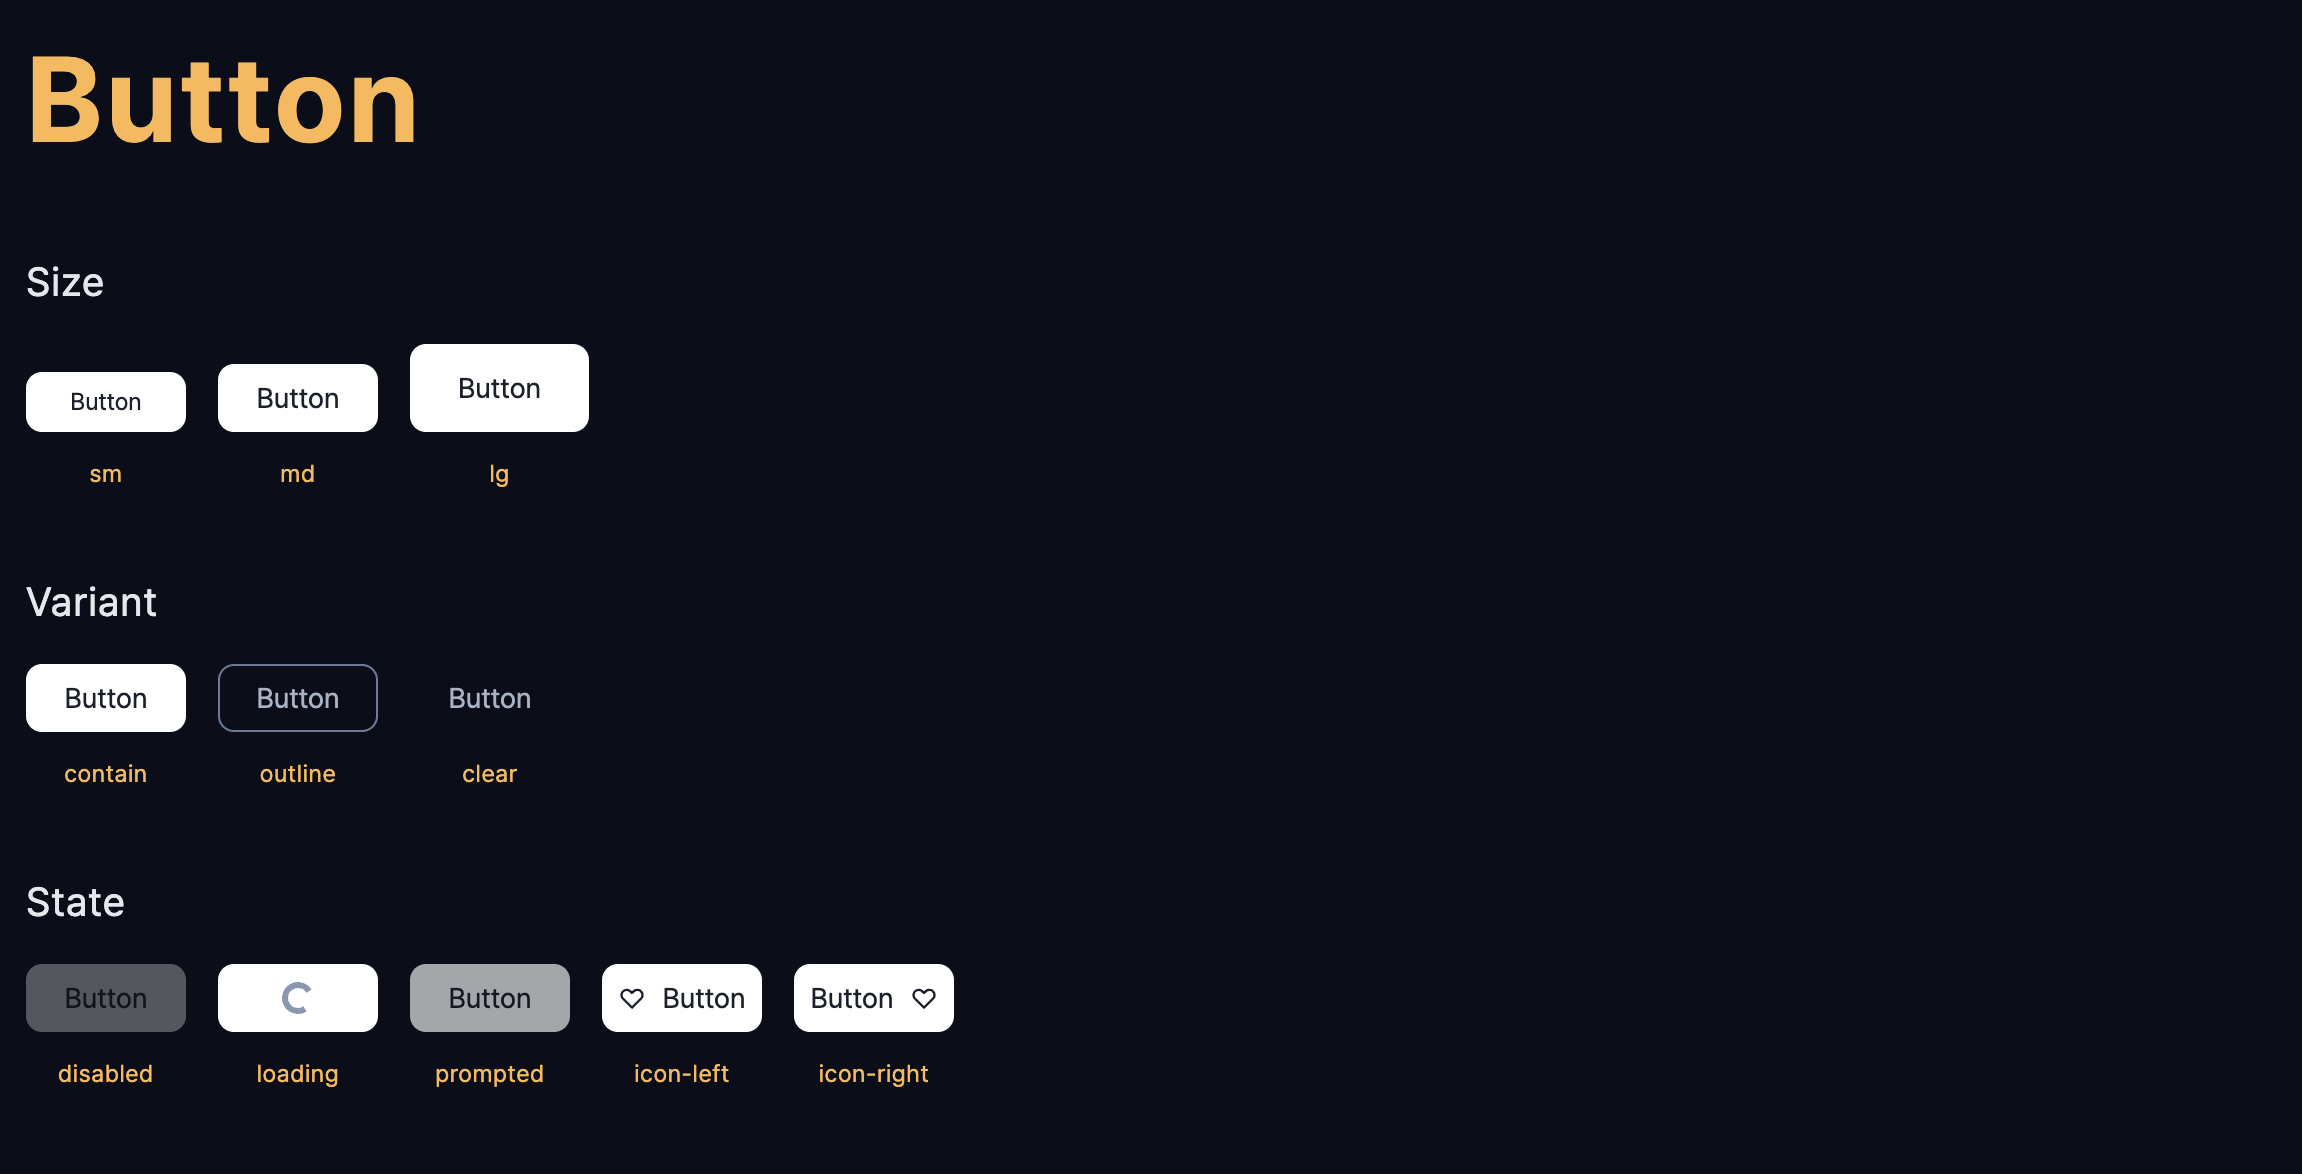
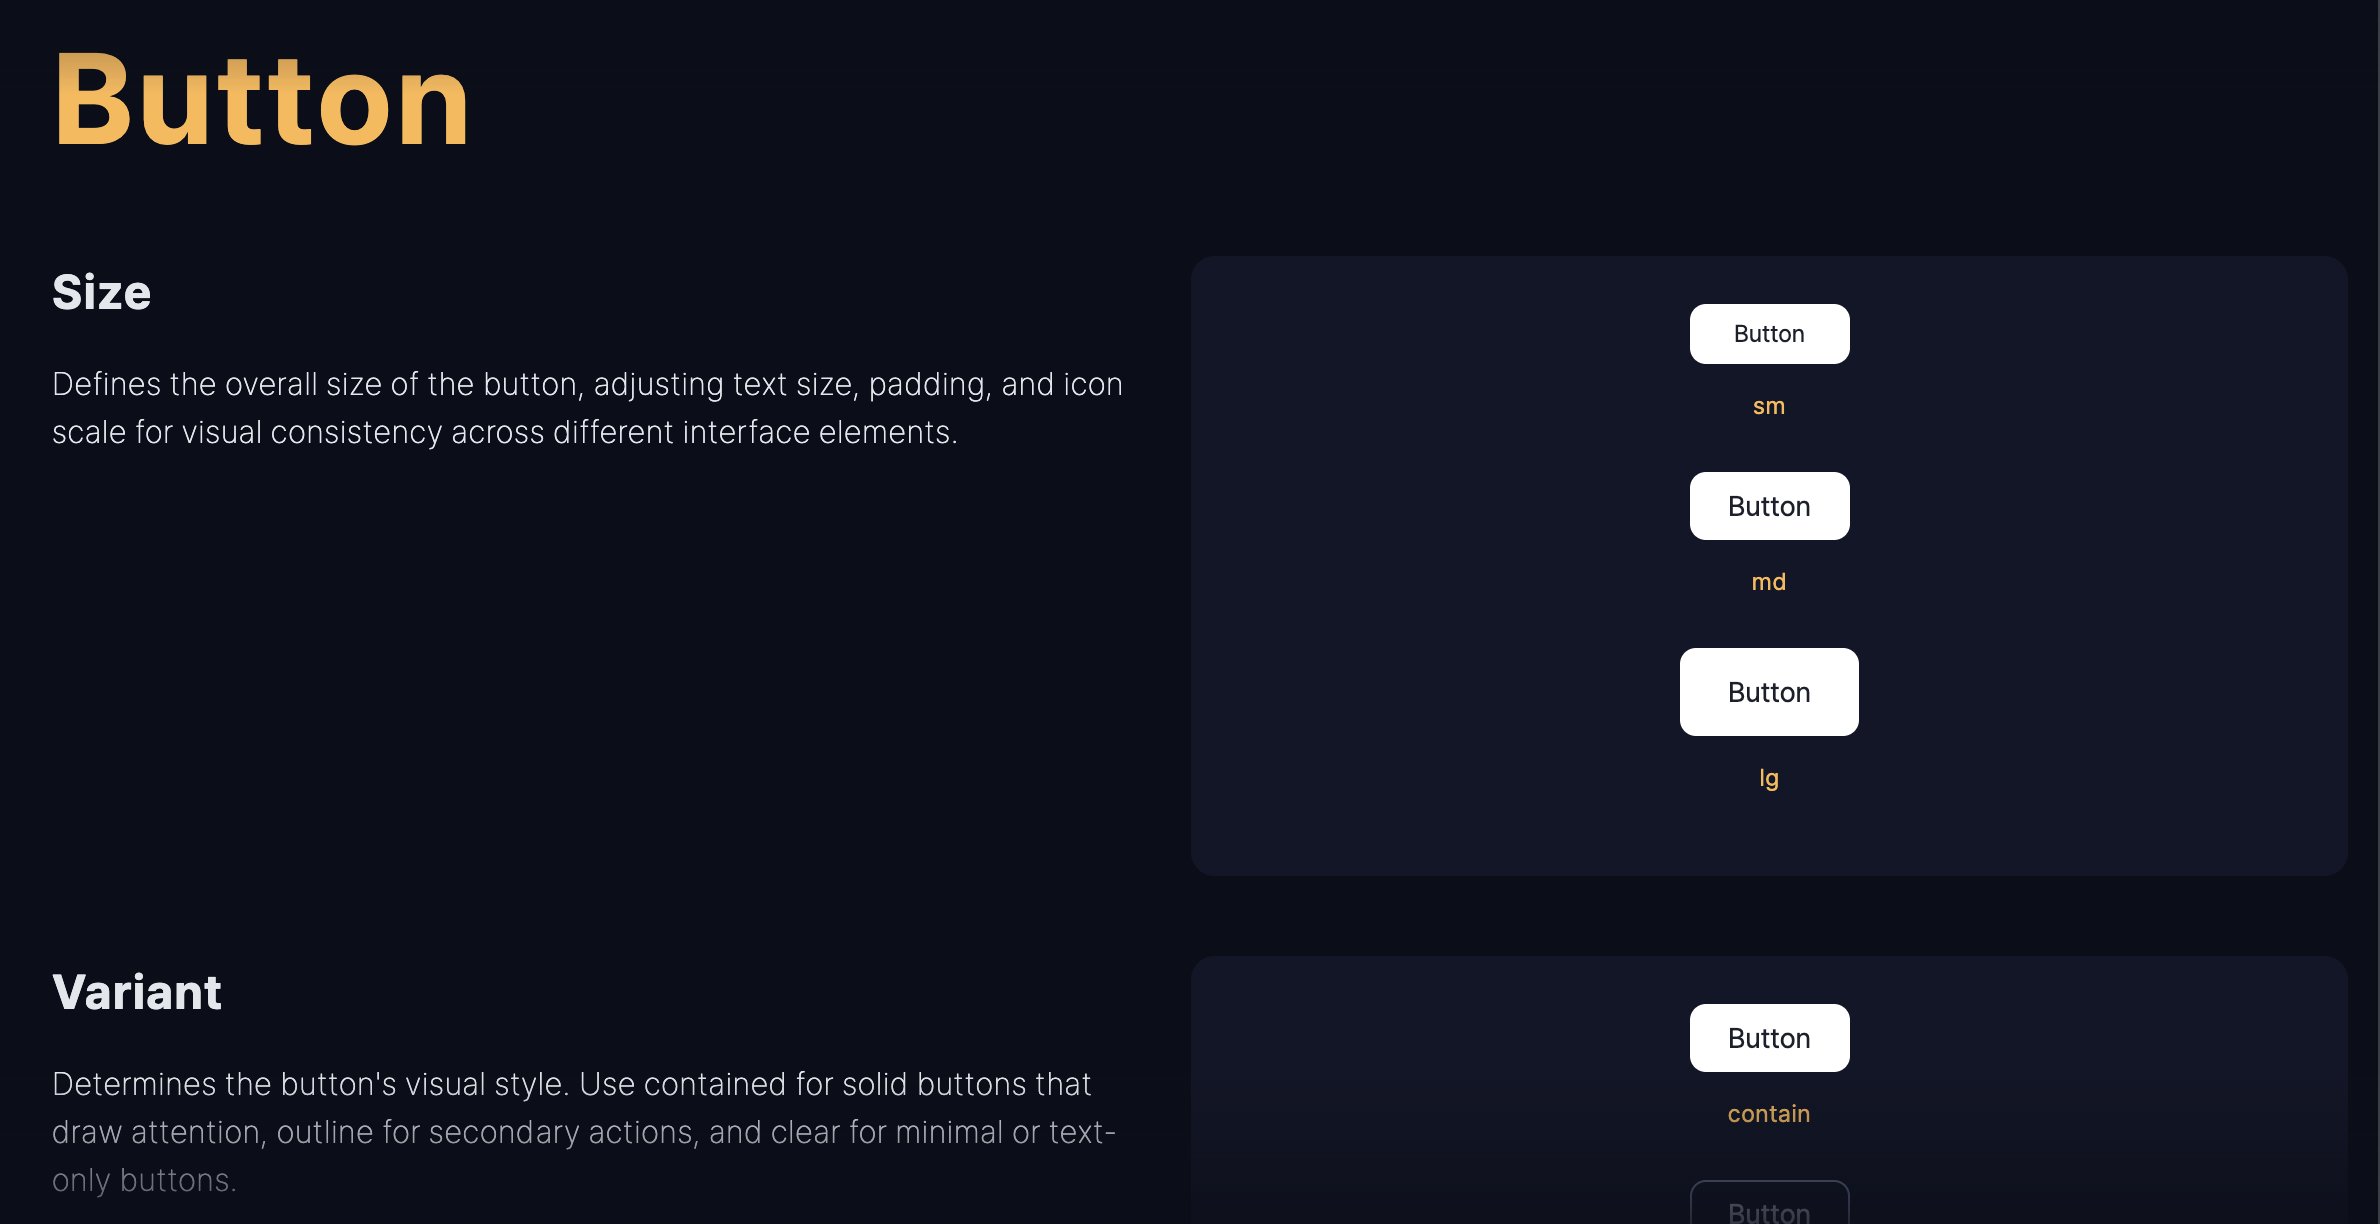
feat: add desc to button

diff --git a/src/design-system/components/button/ButtonStateGuide.tsx b/src/design-system/components/button/ButtonStateGuide.tsx
@@ -1,9 +1,7 @@
 import React from 'react';
-import { HiOutlineHeart } from 'react-icons/hi';
 
 import FlexWrapper from '@/design-system/layout/FlexWrapper';
 
-import Box from '@/design-system/components/Box';
 import Button from '@/design-system/components/Button';
 import Typography from '@/design-system/foundation/Typography';
 
@@ -15,36 +13,41 @@ const ButtonStateGuide = () => {
     { id: 'disabled', value: 'Disabled' },
     { id: 'loading', value: 'Loading' },
     { id: 'prompted', value: 'Prompted' },
-    { id: 'icon-left', value: 'Icon Left' },
-    { id: 'icon-right', value: 'Icon Right' },
   ];
   return (
-    <FlexWrapper classes="w-full" items="start" direction="col">
-      <Typography variant="H3">State</Typography>
-      <FlexWrapper classes="size-full" items="center">
-        <FlexWrapper items="end">
-          {statusOptions.map((option) => (
-            <div key={option.id} className="w-full">
-              <FlexWrapper classes="!gap-3" direction="col" items="center">
-                <Button
-                  disabled={option.id === 'disabled'}
-                  loading={option.id === 'loading'}
-                  prompted={option.id === 'prompted'}
-                  icon={
-                    (option.id === 'icon-left' || option.id === 'icon-right') && <HiOutlineHeart />
-                  }
-                  iconPosition={option.id === 'icon-left' ? 'left' : 'right'}
-                  classes="min-w-[80px]"
-                >
-                  Button
-                </Button>
-                <Typography variant="C1" color="secondary">
-                  {option.id}
-                </Typography>
-              </FlexWrapper>
-            </div>
-          ))}
-        </FlexWrapper>
+    <FlexWrapper classes="size-full lg:flex-row" direction="col" items="start">
+      <FlexWrapper classes="w-full" items="start" direction="col">
+        <Typography variant="H3">State</Typography>
+        <Typography variant="B1">
+          Represents the interactive state of the button. Use disabled to prevent interaction,
+          loading to indicate progress, and prompt to draw temporary attention or highlight a key
+          action.
+        </Typography>
+      </FlexWrapper>
+      <FlexWrapper
+        items="start"
+        direction="col"
+        justify="start"
+        classes="bg-primary-900 p-6 w-full rounded-xl pb-10"
+        gap={6}
+      >
+        {statusOptions.map((option) => (
+          <div key={option.id} className="w-full">
+            <FlexWrapper classes="!gap-3" direction="col" items="center">
+              <Button
+                disabled={option.id === 'disabled'}
+                loading={option.id === 'loading'}
+                prompted={option.id === 'prompted'}
+                classes="min-w-[80px]"
+              >
+                Button
+              </Button>
+              <Typography variant="C1" color="secondary">
+                {option.id}
+              </Typography>
+            </FlexWrapper>
+          </div>
+        ))}
       </FlexWrapper>
     </FlexWrapper>
   );

diff --git a/src/design-system/components/button/ButtonIconGuide.tsx b/src/design-system/components/button/ButtonIconGuide.tsx
@@ -1,26 +1,26 @@
 import React from 'react';
+import { HiOutlineHeart } from 'react-icons/hi';
 
 import FlexWrapper from '@/design-system/layout/FlexWrapper';
 
 import Button from '@/design-system/components/Button';
 import Typography from '@/design-system/foundation/Typography';
 
-const ButtonSizeGuide = () => {
-  const sizeOptions: {
-    id: Common.ButtonSize;
+const ButtonIconGuide = () => {
+  const iconOptions: {
+    id: Common.ButtonIconPosition;
     value: string;
   }[] = [
-    { id: 'sm', value: 'Small' },
-    { id: 'md', value: 'Medium' },
-    { id: 'lg', value: 'Large' },
+    { id: 'left', value: 'Left Icon' },
+    { id: 'right', value: 'Right Icon' },
   ];
   return (
     <FlexWrapper classes="size-full lg:flex-row" direction="col" items="start">
       <FlexWrapper classes="w-full" items="start" direction="col">
-        <Typography variant="H3">Size</Typography>
+        <Typography variant="H3">Icon</Typography>
         <Typography variant="B1">
-          Defines the overall size of the button, adjusting text size, padding, and icon scale for
-          visual consistency across different interface elements.
+          Defines the icon placement within the button. Use icon-left or icon-right to display icons
+          beside the label, or hide to render the button without an icon.
         </Typography>
       </FlexWrapper>
       <FlexWrapper
@@ -30,10 +30,14 @@ const ButtonSizeGuide = () => {
         classes="bg-primary-900 p-6 w-full rounded-xl pb-10"
         gap={6}
       >
-        {sizeOptions.map((option) => (
+        {iconOptions.map((option) => (
           <div key={option.id} className="w-full">
             <FlexWrapper classes="!gap-3" direction="col" items="center">
-              <Button classes="min-w-[80px]" size={option.id}>
+              <Button
+                icon={<HiOutlineHeart className="text-lg" />}
+                iconPosition={option.id}
+                classes="min-w-[80px]"
+              >
                 Button
               </Button>
               <Typography variant="C1" color="secondary">
@@ -47,4 +51,4 @@ const ButtonSizeGuide = () => {
   );
 };
 
-export default ButtonSizeGuide;
+export default ButtonIconGuide;

diff --git a/src/design-system/components/button/ButtonShapeGuide.tsx b/src/design-system/components/button/ButtonShapeGuide.tsx
@@ -1,26 +1,26 @@
 import React from 'react';
+import { HiOutlineHeart } from 'react-icons/hi';
 
 import FlexWrapper from '@/design-system/layout/FlexWrapper';
 
 import Button from '@/design-system/components/Button';
 import Typography from '@/design-system/foundation/Typography';
 
-const ButtonSizeGuide = () => {
-  const sizeOptions: {
-    id: Common.ButtonSize;
+const ButtonShapeGuide = () => {
+  const shapeOptions: {
+    id: Common.ButtonShape;
     value: string;
   }[] = [
-    { id: 'sm', value: 'Small' },
-    { id: 'md', value: 'Medium' },
-    { id: 'lg', value: 'Large' },
+    { id: 'rect', value: 'Rect' },
+    { id: 'circle', value: 'Circle' },
   ];
   return (
     <FlexWrapper classes="size-full lg:flex-row" direction="col" items="start">
       <FlexWrapper classes="w-full" items="start" direction="col">
-        <Typography variant="H3">Size</Typography>
+        <Typography variant="H3">Shape</Typography>
         <Typography variant="B1">
-          Defines the overall size of the button, adjusting text size, padding, and icon scale for
-          visual consistency across different interface elements.
+          Controls the button's overall shape. Use rect for standard rectangular buttons or circle
+          for perfectly round buttons, often used for icon-only actions.
         </Typography>
       </FlexWrapper>
       <FlexWrapper
@@ -30,11 +30,11 @@ const ButtonSizeGuide = () => {
         classes="bg-primary-900 p-6 w-full rounded-xl pb-10"
         gap={6}
       >
-        {sizeOptions.map((option) => (
+        {shapeOptions.map((option) => (
           <div key={option.id} className="w-full">
             <FlexWrapper classes="!gap-3" direction="col" items="center">
-              <Button classes="min-w-[80px]" size={option.id}>
-                Button
+              <Button shape={option.id}>
+                <HiOutlineHeart className="text-lg" />
               </Button>
               <Typography variant="C1" color="secondary">
                 {option.id}
@@ -47,4 +47,4 @@ const ButtonSizeGuide = () => {
   );
 };
 
-export default ButtonSizeGuide;
+export default ButtonShapeGuide;

diff --git a/src/design-system/components/button/ButtonVariantGuide.tsx b/src/design-system/components/button/ButtonVariantGuide.tsx
@@ -17,23 +17,33 @@ const ButtonVariantGuide = () => {
   ];
 
   return (
-    <FlexWrapper classes="w-full" items="start" direction="col">
-      <Typography variant="H3">Variant</Typography>
-      <FlexWrapper classes="size-full" items="center">
-        <FlexWrapper items="end">
-          {variantOptions.map((option) => (
-            <div key={option.id} className="w-full">
-              <FlexWrapper classes="!gap-3" direction="col" items="center">
-                <Button classes="min-w-[80px]" variant={option.id}>
-                  Button
-                </Button>
-                <Typography variant="C1" color="secondary">
-                  {option.id}
-                </Typography>
-              </FlexWrapper>
-            </div>
-          ))}
-        </FlexWrapper>
+    <FlexWrapper classes="size-full lg:flex-row" direction="col" items="start">
+      <FlexWrapper classes="w-full" items="start" direction="col">
+        <Typography variant="H3">Variant</Typography>
+        <Typography variant="B1">
+          Determines the button's visual style. Use contained for solid buttons that draw attention,
+          outline for secondary actions, and clear for minimal or text-only buttons.
+        </Typography>
+      </FlexWrapper>
+      <FlexWrapper
+        items="start"
+        direction="col"
+        justify="start"
+        classes="bg-primary-900 p-6 w-full rounded-xl pb-10"
+        gap={6}
+      >
+        {variantOptions.map((option) => (
+          <div key={option.id} className="w-full">
+            <FlexWrapper classes="!gap-3" direction="col" items="center">
+              <Button classes="min-w-[80px]" variant={option.id}>
+                Button
+              </Button>
+              <Typography variant="C1" color="secondary">
+                {option.id}
+              </Typography>
+            </FlexWrapper>
+          </div>
+        ))}
       </FlexWrapper>
     </FlexWrapper>
   );

diff --git a/src/app/design-system/components/button/page.tsx b/src/app/design-system/components/button/page.tsx
@@ -3,6 +3,8 @@
 import ButtonSizeGuide from '@/design-system/components/button/ButtonSizeGuide';
 import ButtonStateGuide from '@/design-system/components/button/ButtonStateGuide';
 import ButtonVariantGuide from '@/design-system/components/button/ButtonVariantGuide';
+import ButtonIconGuide from '@/design-system/components/button/ButtonIconGuide';
+import ButtonShapeGuide from '@/design-system/components/button/ButtonShapeGuide';
 import BreadCrumb from '@/design-system/layout/BreadCrumb';
 import Typography from '@/design-system/foundation/Typography';
 import FlexWrapper from '@/design-system/layout/FlexWrapper';
@@ -28,6 +30,8 @@ export default function ComponentButtonPage() {
           <ButtonSizeGuide />
           <ButtonVariantGuide />
           <ButtonStateGuide />
+          <ButtonIconGuide />
+          <ButtonShapeGuide />
           <FlexWrapper classes="w-full" items="start" direction="col">
             <Typography variant="H3">Props</Typography>
             <SimpleTable columns={propsColumn} data={propsData} />
@@ -191,6 +195,25 @@ const propsData = [
   },
   {
     id: '11',
+    property: (
+      <Badge color="secondary" size="md">
+        shape
+      </Badge>
+    ),
+    type: (
+      <FlexWrapper items="center" gap={1}>
+        {['rect', 'circle'].map((shape) => (
+          <Badge key={shape} size="md">
+            {shape}
+          </Badge>
+        ))}
+      </FlexWrapper>
+    ),
+    default: 'rect',
+    description: 'The shape of the button.',
+  },
+  {
+    id: '12',
     property: (
       <Badge color="secondary" size="md">
         onClick

diff --git a/src/design-system/components/Button.tsx b/src/design-system/components/Button.tsx
@@ -19,6 +19,7 @@ const Button = React.forwardRef((props: Common.ButtonProps, ref: React.Ref<HTMLB
     loading = false,
     prompted = false,
     /** state end */
+    shape = 'rect',
     icon,
     iconPosition = 'left',
     onClick,
@@ -84,7 +85,8 @@ const Button = React.forwardRef((props: Common.ButtonProps, ref: React.Ref<HTMLB
         variant === 'outline' && getOutlineClasses(color),
         variant === 'contain' && getContainClasses(color),
         disabled && 'cursor-not-allowed opacity-30',
-        prompted && 'animate-flash-fast',
+        prompted && 'animate-flash-fast cursor-pointer',
+        shape === 'circle' && 'aspect-square !rounded-full p-0',
       )}
       disabled={disabled}
       ref={ref}
@@ -102,9 +104,9 @@ const Button = React.forwardRef((props: Common.ButtonProps, ref: React.Ref<HTMLB
         />
       ) : (
         <>
-          {icon && iconPosition === 'left' && <span className="mr-2">{icon}</span>}
+          {icon && iconPosition === 'left' && <span className="mr-1">{icon}</span>}
           {children}
-          {icon && iconPosition === 'right' && <span className="ml-2">{icon}</span>}
+          {icon && iconPosition === 'right' && <span className="ml-1">{icon}</span>}
         </>
       )}
     </button>

diff --git a/src/design-system/components/avatar/AvatarSizeGuide.tsx b/src/design-system/components/avatar/AvatarSizeGuide.tsx
@@ -19,8 +19,8 @@ const AvatarSizeGuide = () => {
       <FlexWrapper classes="w-full" items="start" direction="col">
         <Typography variant="H3">Size</Typography>
         <Typography variant="B1">
-          Adds an icon to the badge to visually represent its meaning or status. Icons can be placed
-          before the text to enhance recognition and context.
+          Defines the overall dimensions of the avatar, scaling the image or text accordingly to
+          maintain visual hierarchy across different layouts.
         </Typography>
       </FlexWrapper>
       <FlexWrapper

diff --git a/src/types/common.d.ts b/src/types/common.d.ts
@@ -43,6 +43,7 @@ namespace Common {
   type ButtonVariant = 'contain' | 'outline' | 'clear';
   type ButtonColor = 'primary' | 'info' | 'success' | 'warning' | 'danger';
   type ButtonIconPosition = 'left' | 'right';
+  type ButtonShape = 'rect' | 'circle';
   interface ButtonProps {
     classes?: string;
     type?: ButtonType;
@@ -55,6 +56,7 @@ namespace Common {
     loading?: boolean;
     prompted?: boolean;
     /** state end */
+    shape?: ButtonShape;
     icon?: React.ReactNode;
     iconPosition?: ButtonIconPosition;
     onClick?: (e) => void;
